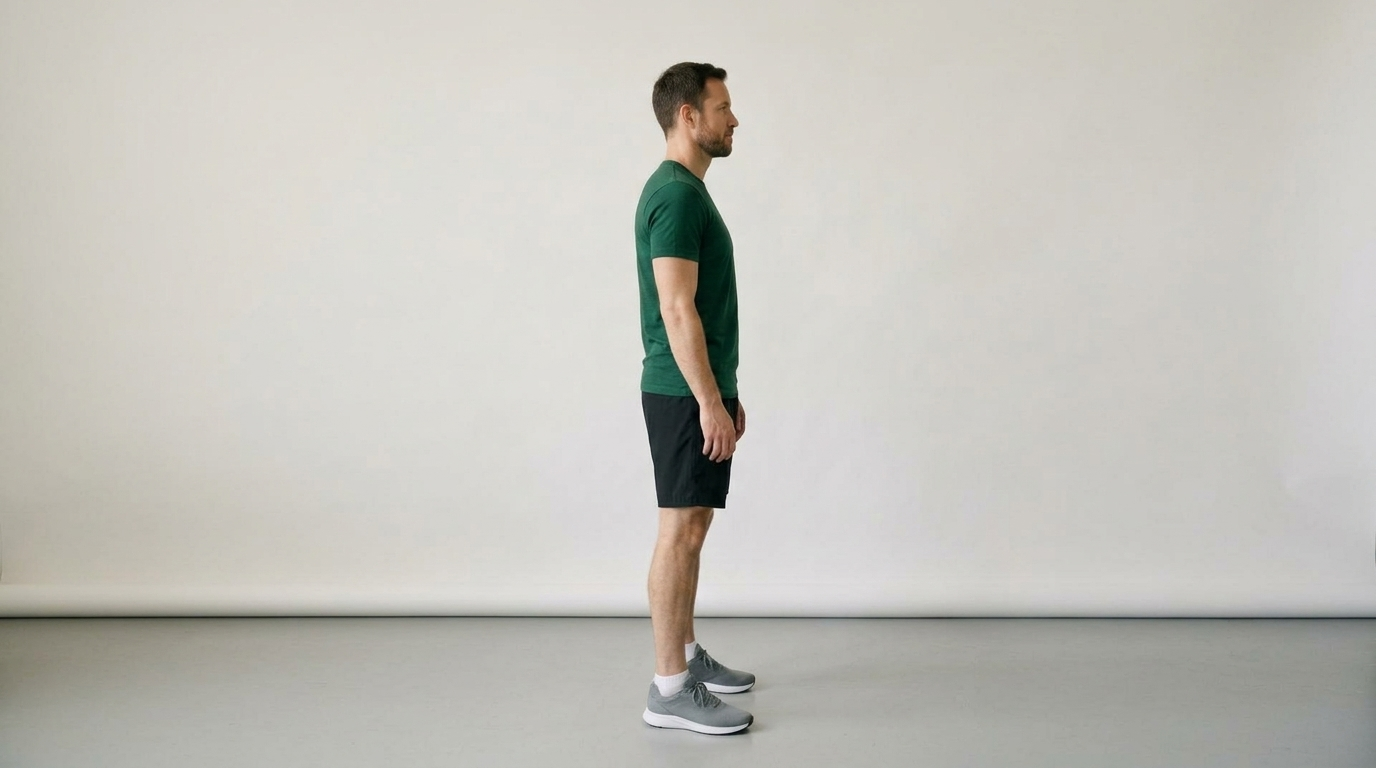
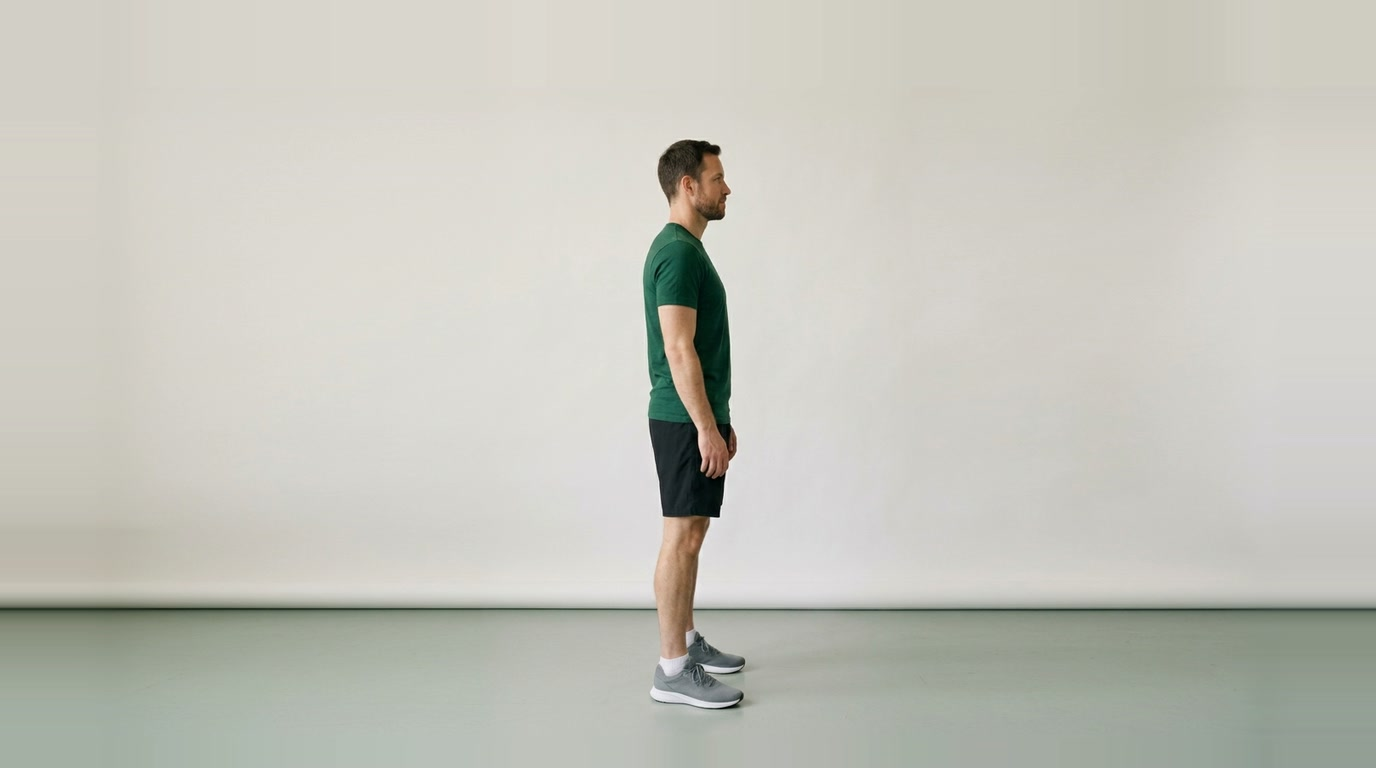
Start poses for jumps: pick.mjs --wider, the burpee and jump squat picked with it
The image model draws a standing person top to bottom whatever the
framing words say: four burpee start poses in a row had the head about
8% from the top, and day 2's jump squat jumped out of the frame.
pick.mjs start <move> <coach> <n> --wider <scale> now:
- puts the photo, scaled down, on the same frame, centred, with three
  quarters of the free room above the head;
- extends the studio around it from the average colour of the photo's
  edge, row by row and column by column, blurred only sideways so the
  line where wall meets floor stays sharp;
- lays the photo over it with soft edges;
- records the scale, the placement and the model photo's sha256 under
  `wider` in the pick's .json.

Picks (Claude, Victor's go-ahead):
- burpee: candidate 1 of the second run at 0.85, head about 18% from
  the top;
- jump squat: candidate 1 at 0.8, head about 29% from the top; the
  4:3 crop for standing moves cuts the side extension away.

test.mjs: 106 checks. The new ones check the frame size, the
placement, the record, a refused scale, and a pick without --wider.
SKILL.md says when to use it.

Claude-Session: https://claude.ai/code/session_0146jBLMr9x4UFpo2gcu4ZmQ

Changed region(s): [[0.0, 0.0625, 1.0, 0.9688], [0.9688, 0.9062, 1.0, 0.9375]]

diff --git a/.claude/skills/frank-coach-video/SKILL.md b/.claude/skills/frank-coach-video/SKILL.md
@@ -140,6 +140,7 @@ Same scripts, with the key in the shell. A request file works here too:
 | Pick a look | `node tools/media/ai/pick.mjs look f 2 --by Victor` | `tools/media/ai/coaches/f/` (commit it) |
 | 2. Start poses | `node tools/media/ai/keyframe.mjs --moves squat,push-up,plank --candidates 2` | `out/<run>/keyframes/<coach>/<move>/1.jpg, 2.jpg` |
 | Pick one | `node tools/media/ai/pick.mjs start squat f 1` | `tools/media/ai/keyframes/f/squat.jpg` (commit it) |
+| A jump's pick, with room above the head | `node tools/media/ai/pick.mjs start burpee m 1 --wider 0.85` | the photo at 85% on the same frame, the studio extended around it, and `wider` in its `.json` |
 | 3. Clips | `node tools/media/ai/clip.mjs --moves squat,push-up,plank` | `out/<run>/takes/<coach>/<move>/take-1.mp4` |
 | 4. Review | `node tools/media/ai/review.mjs` | `out/<run>/review/index.html` and `sheet.png` |
 | Approve | `node tools/media/ai/approve.mjs squat f take-1 --by Frank` | an entry in `tools/media/ai/approved.json` (commit it) |
@@ -158,6 +159,11 @@ Same scripts, with the key in the shell. A request file works here too:
   out wrong, write its start position in `START` in `prompts.mjs`. The pilot moves have one, and
   so do the moves whose set-up text left the start open: the image model tends to draw the top of
   a bridge or a raise, or a squat or lunge halfway down, where the clip should start.
+- A move that jumps needs room above the head, or the jump leaves the frame (day 2's jump squat).
+  The image model draws a standing person top to bottom whatever the framing words say, so pick
+  the start pose with `--wider` (0.85; 0.8 for a jump squat): the photo goes smaller on the same
+  frame and the plain studio is extended around it. Look at the result before committing it: it
+  suits the plain backdrop, not a picture with things near its edges.
 - A start pose the image model won't draw (its answer has no picture) is left out with a warning,
   and the other start poses go on. Ask for that move again in a later request.
 
